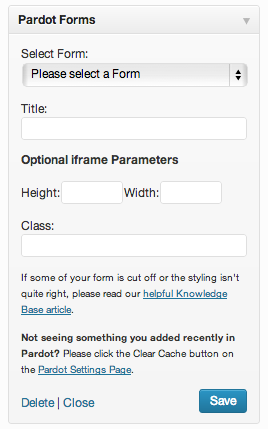
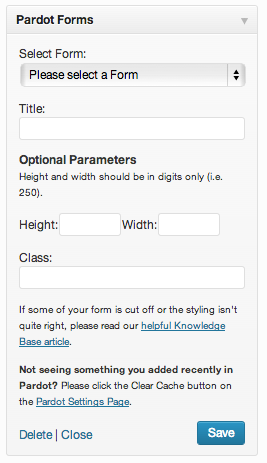
Update modal and widgets with better instructions; screenshots

diff --git a/trunk/js/tinymce/editor_plugin.js b/trunk/js/tinymce/editor_plugin.js
@@ -10,7 +10,7 @@ Author: Mike Schinkel <mike@newclarity.net>
 				ed.windowManager.open({
 					file:url + '/pardot-forms-shortcode-popup.php',
 					width:420 + parseInt(ed.getLang('pardotformsshortcodeinsert.delta_width', 0)),
-					height:350 + parseInt(ed.getLang('pardotformsshortcodeinsert.delta_height', 0)),
+					height:420 + parseInt(ed.getLang('pardotformsshortcodeinsert.delta_height', 0)),
 					inline:1
 				},{
 					plugin_url:url

diff --git a/trunk/includes/pardot-forms-widget-class.php b/trunk/includes/pardot-forms-widget-class.php
@@ -414,7 +414,12 @@ HTML;
 			 */
 			$help_text = __( 'If some of your form is cut off or the styling isn\'t quite right, please read our %s.', 'pardot' );
 			$help_text = sprintf( $help_text, $help_link );
-			
+
+            /**
+             * Create a variable for parameters helper text.
+             */
+            $param_text = __( 'Height and width should be in digits only (i.e. 250).', 'pardot' );
+
 			/**
 			 * Create link to Settings Page
 			 */
@@ -439,8 +444,8 @@ HTML;
 		
 		$html .= '<p><label for="' . $this->get_field_id( "title" ) . '">' . __( 'Title:' ) . '</label><input class="widefat" id="' . $this->get_field_id( "title" ) . '" name="' . $this->get_field_name( "title" ) . '" type="text" value="' . esc_attr( $title ) . '" /></p>';
 		
-		$html .= '<p><strong>Optional iframe Parameters</strong></p>';
-		
+		$html .= '<p><strong>Optional Parameters</strong><br/><small>' . $param_text . '</small></p>';
+
 		if ( isset( $instance[ 'height' ] ) ) {
 			$height = $instance[ 'height' ];
 		} else {
@@ -456,7 +461,7 @@ HTML;
 		}
 		
 		$html .= '<label for="' . $this->get_field_id( "width" ) . '">' . __( 'Width:' ) . '</label><input id="' . $this->get_field_id( "width" ) . '" name="' . $this->get_field_name( "width" ) . '" type="text" value="' . esc_attr( $width ) . '" size="6" /></p>';
-		
+
 		if ( isset( $instance[ 'class' ] ) ) {
 			$class = $instance[ 'class' ];
 		} else {
@@ -785,12 +790,16 @@ HTML;
 			$cache_link = sprintf( '<a href="%s" target="_parent">%s</a>', $pardot_settings_url, 'Pardot Settings Page' );
 			$cache_text = sprintf( $cache_text, $cache_link );
 
+            /**
+             * Create a variable for parameters helper text.
+             */
+            $param_text = __( 'Height and width should be in px or % (i.e. 250px or 90%).', 'pardot' );
+
 			/**
 			 * Create the HTML for displaying the select of Pardot forms
 			 */
 			$html = <<<HTML
 <p><label for="{$html_id}">{$prompt}</label><select id="{$html_id}" name="{$html_name}" style="max-width:100%">{$options}</select></p>
-<p><small>{$cache_text}</small></p>
 HTML;
 		}
 		
@@ -802,7 +811,7 @@ HTML;
 		
 		$html .= '<p><label for="' . $this->get_field_id( "title" ) . '">' . __( 'Title:' ) . '</label><input class="widefat" id="' . $this->get_field_id( "title" ) . '" name="' . $this->get_field_name( "title" ) . '" type="text" value="' . esc_attr( $title ) . '" /></p>';
 
-        $html .= '<p><strong>Optional iframe Parameters</strong></p>';
+        $html .= '<p><strong>Optional Parameters</strong><br/><small>' . $param_text . '</small></p>';
 
         if ( isset( $instance[ 'height' ] ) ) {
             $height = $instance[ 'height' ];
@@ -827,6 +836,8 @@ HTML;
         }
 
         $html .= '<p><label for="' . $this->get_field_id( "class" ) . '">' . __( 'Class:' ) . '</label><input class="widefat" id="' . $this->get_field_id( "class" ) . '" name="' . $this->get_field_name( "class" ) . '" type="text" value="' . esc_attr( $class ) . '" /></p>';
+
+        $html .= '<p><small>' . $cache_text . '</small></p>';
 
 		/**
 		 * Display whatever HTML is appropriate; error message help or list of forms.

diff --git a/trunk/includes/pardot-forms-shortcode-popup-class.php b/trunk/includes/pardot-forms-shortcode-popup-class.php
@@ -40,7 +40,9 @@ class _Pardot_Forms_Shortcode_Popup {
 #pardot-forms-shortcode-popup {padding:10px 20px 0 10px;width:376px;}
 #pardot-forms-shortcode-popup	#pardot-forms-shortcode-insert-dialog {font-size:1.15em;}
 #pardot-forms-shortcode-popup h1 {font-size:1.5em;margin-bottom:0.5em;}
-#pardot-forms-shortcode-popup .mceActionPanel {text-align:center;margin-top:20px;}
+#pardot-forms-shortcode-popup p {margin:5px 0;clear:both;}
+#pardot-forms-shortcode-popup p.well {padding:5px;background:#ccc;}
+#pardot-forms-shortcode-popup .mceActionPanel {text-align:center;margin:10px 0;}
 #pardot-forms-shortcode-select .spinner {vertical-align:-3px;}
 #pardot-forms-shortcode-select #formshortcode, #pardot-dc-shortcode-select #dcshortcode {font-size:1em;max-width:100%;float:left;}
 #shortcode-dc-input {width:70%;padding:3px 0;}
@@ -188,10 +190,12 @@ HTML;
         $labeldcc = __( 'Class', 'pardot' );
 		$dcsec = __( 'Dynamic Content', 'pardot' );
 		$labeldc = __( 'Select dynamic content to insert', 'pardot' );
-		$labeldcalt = __( 'Default content to show JS-disabled users', 'pardot' );
+		//$labeldcalt = __( 'Default content to show JS-disabled users', 'pardot' );
 		$cache_text = __( '<strong>Not seeing something you added recently in Pardot?</strong> Please click the Clear Cache button on the %s.', 'pardot' );
 		$cache_link = sprintf( '<a href="%s" target="_parent">%s</a>', $pardot_settings_url, 'Pardot Settings Page' );
 		$cache_text = sprintf( $cache_text, $cache_link );
+        $formparam_text = __( 'Height and width should be in digits only (i.e. 250).', 'pardot' );
+        $dcparam_text = __( 'Height and width should be in px or % (i.e. 250px or 90%).', 'pardot' );
 		/**
 		 * Use HEREDOC to make the form's HTML much more easy to understand.
 		 *
@@ -210,6 +214,7 @@ HTML;
 		</span>
 		<br clear="all" />
 		<h4>{$formcust}</h4>
+		<p><small>{$formparam_text}</small></p>
 		<label for="formh">{$labelformh}</label>:
 		<input type="text" size="6" id="formh" name="formh" />
 		<label for="formw">{$labelformw}</label>:
@@ -226,6 +231,7 @@ HTML;
 		</span>
 		<br clear="all" />
 		<h4>{$dccust}</h4>
+	    <p><small>{$dcparam_text}</small></p>
 		<label for="dch">{$labeldch}</label>:
 		<input type="text" size="6" id="dch" name="dch" />
 		<label for="dcw">{$labeldcw}</label>:
@@ -245,8 +251,7 @@ HTML;
 			<input type="submit" id="cancel" name="cancel" value="{#cancel}" class="button-secondary" onclick="tinyMCEPopup.close();" />
 		</span>
 	</div>
-	<br clear="all" />
-	<p><small>{$cache_text}</small></p>
+	<p class="well"><small>{$cache_text}</small></p>
 </form>
 </div>
 <script type="text/javascript">
